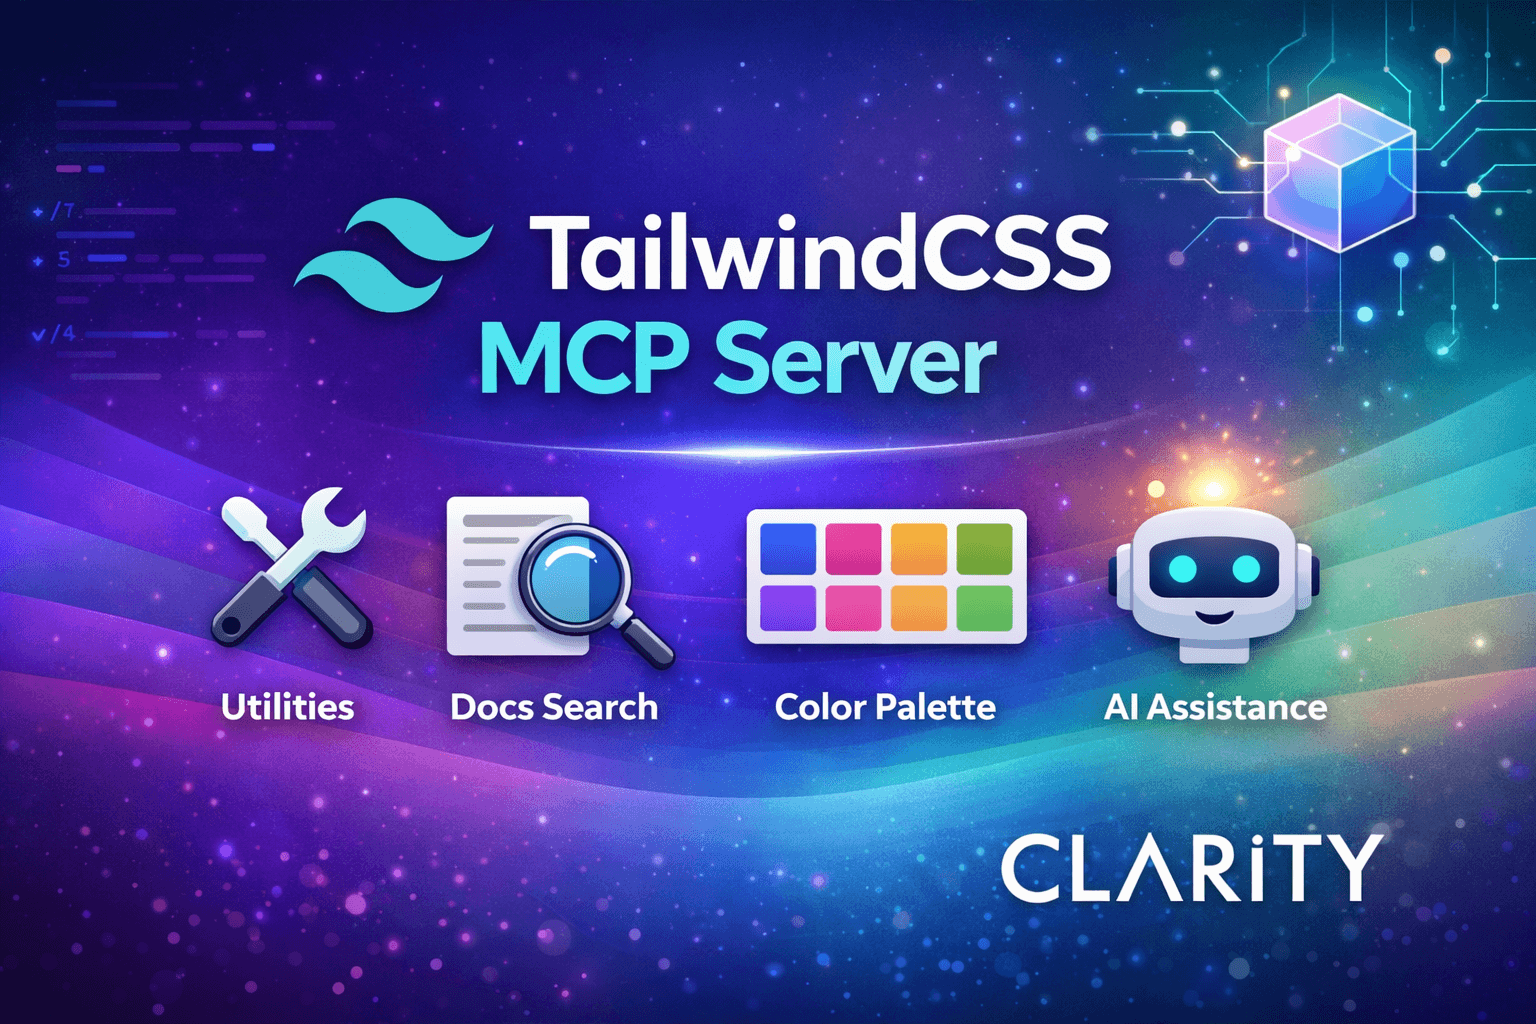
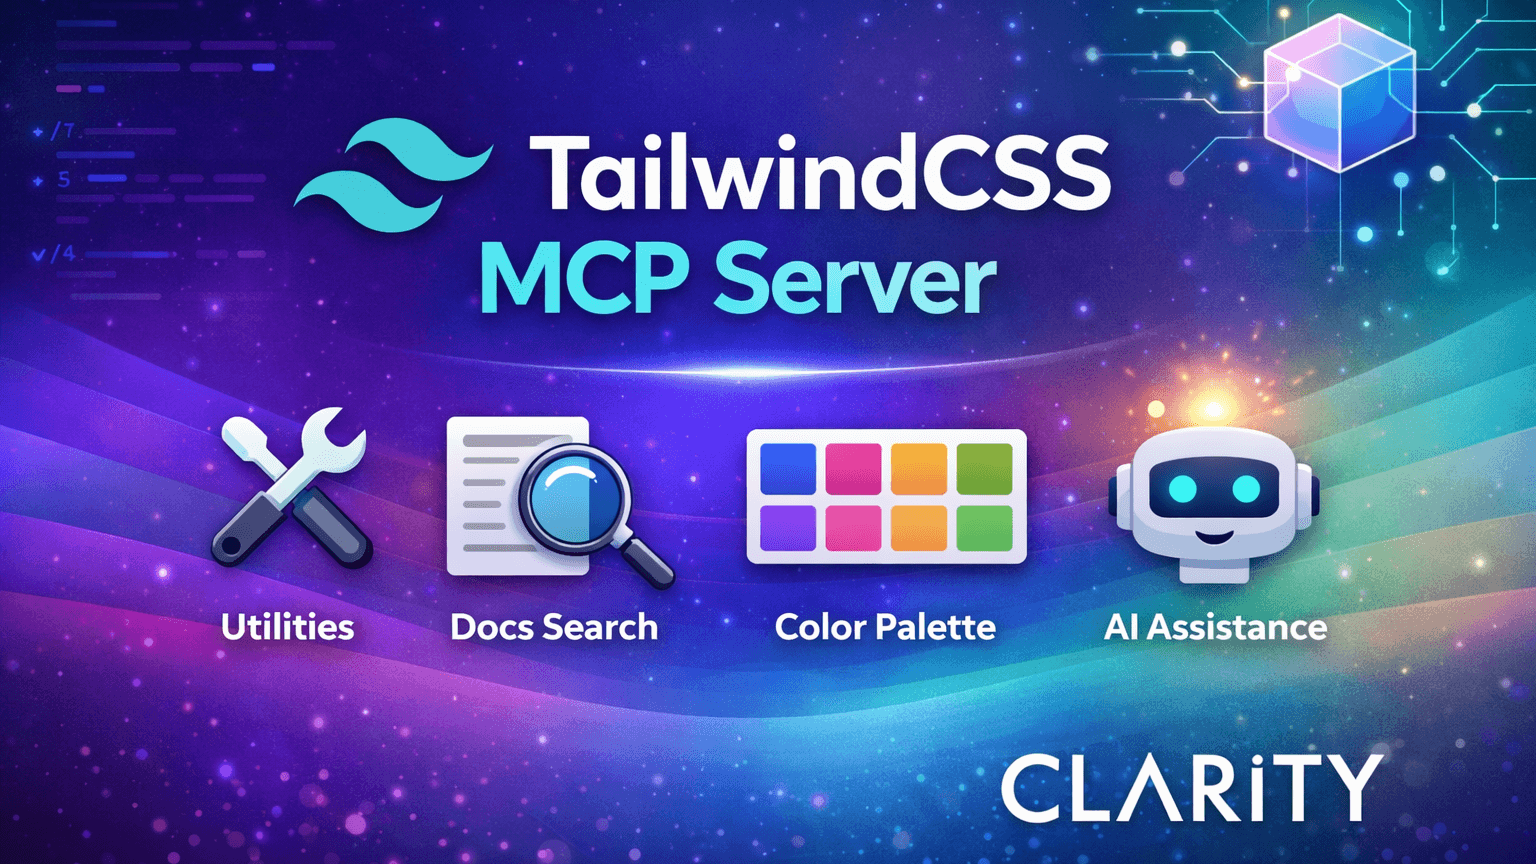
Set README hero image width to 720px
Add width="720" attribute to the README hero image to standardize its display. The referenced PNG file was also updated (binary changed).

diff --git a/README.md b/README.md
@@ -1,5 +1,5 @@
 <p align="center">
-  <img src="tailwindcss-clarity-mcp-server-with-v3-and-v4.png" alt="TailwindCSS MCP Server" />
+  <img src="tailwindcss-clarity-mcp-server-with-v3-and-v4.png" alt="TailwindCSS MCP Server" width="720" />
 </p>
 
 # TailwindCSS MCP Server
